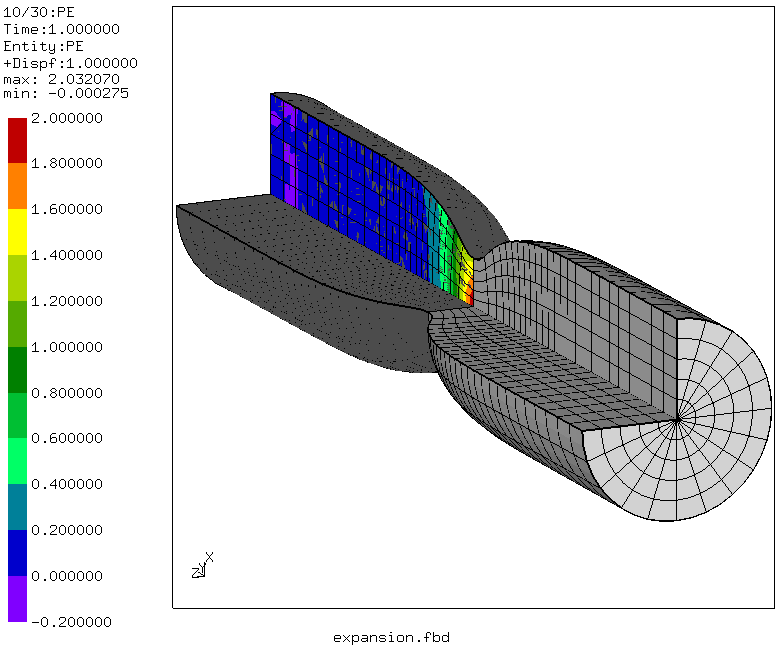
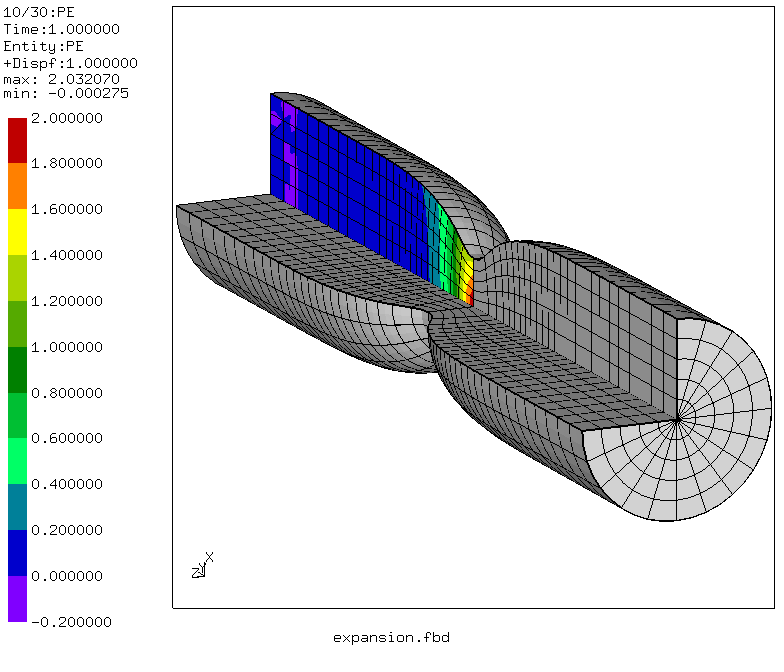
test with corrected 2.12

Changed region(s): [[0.2143, 0.2812, 0.6122, 0.5625], [0.3367, 0.125, 0.6429, 0.4062]]

diff --git a/Drahtbiegen/Zug/README.md b/Drahtbiegen/Zug/README.md
@@ -2,7 +2,6 @@
 Tested with CGX/CCX 2.12
 
 Issues
-* Inverted elements in the mirror copy for symmetry expansion
 * dark shading of `expanded.png`
 
 Tensile test of a wire of 1 mm diameter made of 1.4301 stainless steel. This steel has a high yield strength but nearly no work hardening, thus the uniform strain is very low and necking occures early and very localized.
@@ -28,7 +27,7 @@ The model is axisymmetric and represents a 2 mm piece of the wire with full disp
 ## Preprocessing
 This example is designed with two alternative ways for parametrization. Both produce equivalent results.
 
-The mesh is biased as to account for the localized deformation. Axisymmetric second order quadrilateral elements with reduced integration (CAX8R) are used. 
+The mesh is biased as to account for the localized deformation. Axisymmetric second order quadrilateral elements with reduced integration (CAX8R) are used.
 
 <img src="zug-geo.png" width="400">
 
@@ -64,13 +63,11 @@ This creates path plots of the plastic equivalent strain along the symmetry axis
 
 The first plot is based on the **undeformed** geometry:
 
-<img src="path0geo.png" width="300" title="Path on the undeformed model">
-<img src="path0.png" width="500" title="Path plot of the equivalent strain">
+<img src="path0geo.png" width="300" title="Path on the undeformed model"><img src="path0.png" width="500" title="Path plot of the equivalent strain">
 
 The second plot is based on the **deformed** geometry:
 
-<img src="pathgeo.png" width="300" title="Path on the deformed model">
-<img src="path.png" width="500" title="Path plot of the equivalent strain">
+<img src="pathgeo.png" width="300" title="Path on the deformed model"><img src="path.png" width="500" title="Path plot of the equivalent strain">
 
 #### Symmetry expansion
 Beginning with version 2.10, CGX can sweep 2D elements with results attached. This is used for symmetry expansion of the axisymmetric 2D output.
@@ -79,8 +76,7 @@ Note: In CGX 2.12 a regression happened: The mirror copy has inverted elements.
 ```
 > cgx -b expansion.fbd
 ```
-<img src="PE-expanded.png" width="300" title="Automatically generated plot of the plastic equivalent strain with symmetry expansion">
-<img src="expanded.png" width="300" title="This image is darker than expected.">
+<img src="PE-expanded.png" width="300" title="Automatically generated plot of the plastic equivalent strain with symmetry expansion"><img src="expanded.png" width="300" title="This image is darker than expected.">
 <img src="2D3D.png" width="300" title="3D expansion with embedded 2D model">
 
 To see just the non-expanded model, use this command:
